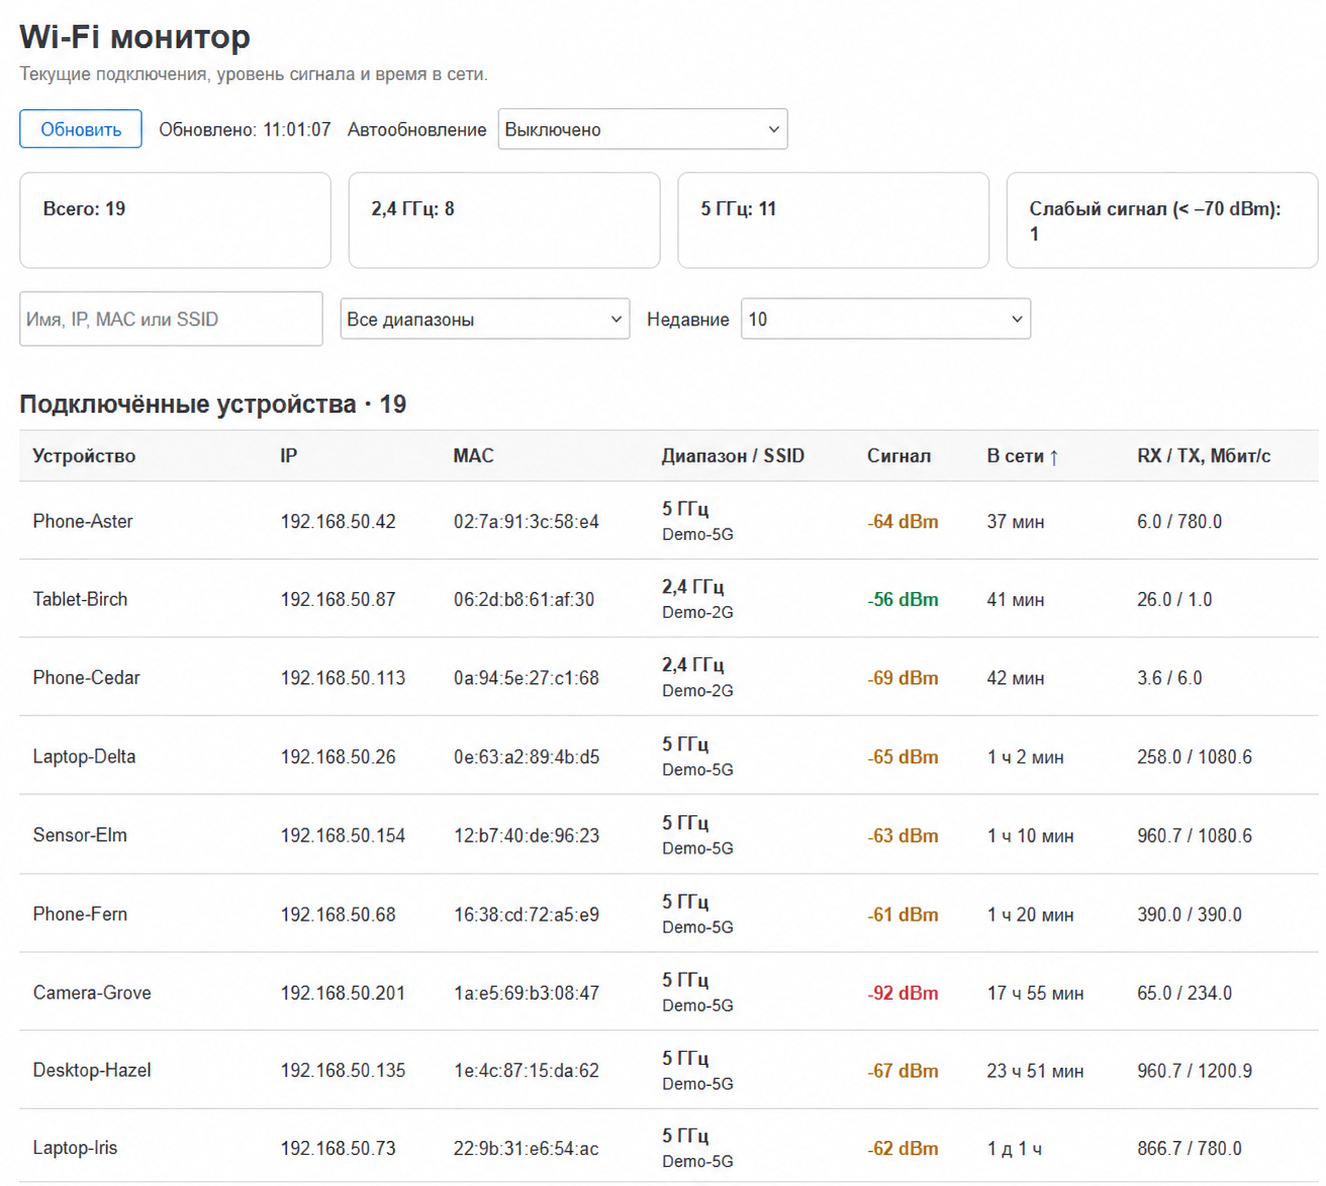
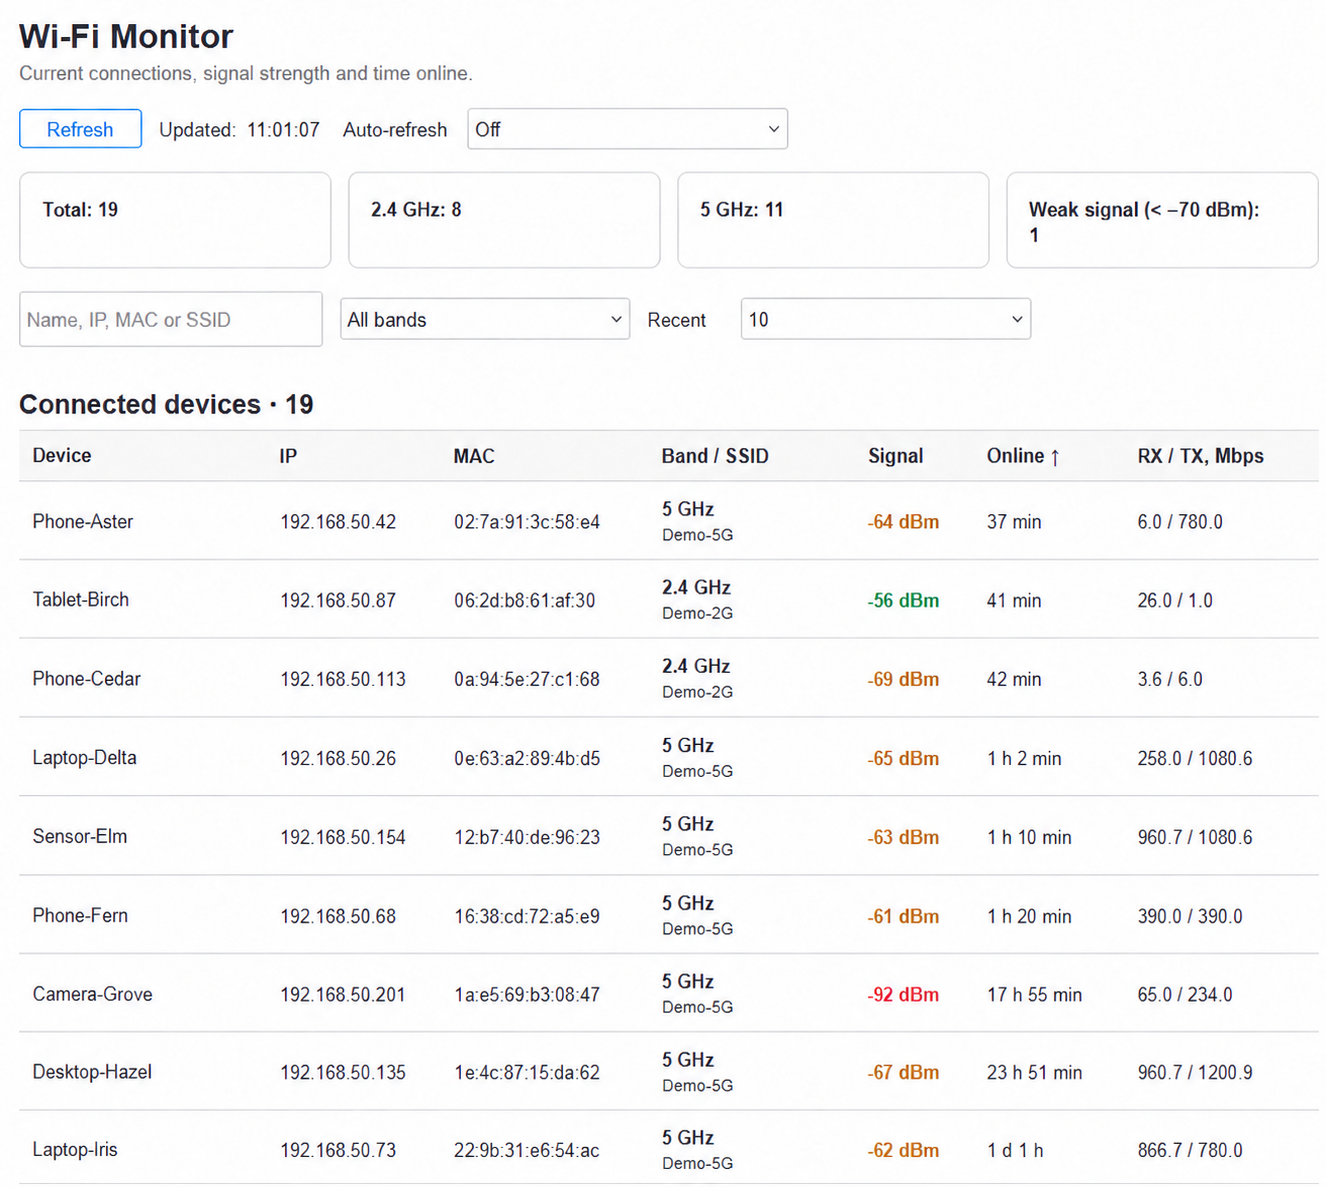
Translated interface screenshots into English

diff --git a/README.ru.md b/README.ru.md
@@ -10,7 +10,7 @@ Wi-Fi Monitor добавляет пункт **Сервисы → Wi-Fi Monitor**
 
 ![Обзор Wi-Fi монитора: счётчики, поиск, диапазоны и таблица устройств](docs/images/overview.png)
 
-*На иллюстрациях имена устройств, SSID, IP и MAC заменены вымышленными данными. Показан фрагмент общего списка; счётчик относится ко всем подключениям.*
+*На иллюстрациях показан английский интерфейс; имена устройств, SSID, IP и MAC заменены вымышленными данными. Показан фрагмент общего списка; счётчик относится ко всем подключениям.*
 
 ## Почему не достаточно списка DHCP-аренд
 
@@ -43,7 +43,7 @@ Wi-Fi Monitor отвечает на другой вопрос: **«какие у
 
 ## Возможности
 
-- Отдельная страница LuCI на русском языке, доступная после обычного входа.
+- Отдельная страница LuCI на английском и русском языках, доступная после обычного входа.
 - Имя устройства, IPv4, MAC, диапазон, SSID, сигнал в dBm, время в сети, скорости RX/TX.
 - Сортировка нажатием на заголовок столбца; повторное нажатие меняет направление.
 - Поиск по имени, IP, MAC, SSID и имени интерфейса.

diff --git a/README.md b/README.md
@@ -10,7 +10,7 @@ Wi-Fi Monitor adds **Services → Wi-Fi Monitor** to LuCI. It reads the stations
 
 ![Wi-Fi Monitor overview with counters, search, band filters and connected stations](docs/images/overview.png)
 
-*The screenshots show the Russian interface. Device names, SSIDs, IP addresses and MAC addresses were replaced with fictional data. The overview image contains only part of the table; its counter covers all connections.*
+*Device names, SSIDs, IP addresses and MAC addresses in the screenshots are fictional. The overview image contains only part of the table; its counter covers all connections.*
 
 ## Why DHCP leases are not enough
 

diff --git a/CHANGELOG.md b/CHANGELOG.md
@@ -7,6 +7,7 @@
 - Интерфейс переведён на английский язык с автоматическим выбором английского или русского языка LuCI.
 - Добавлена проверка регистрации RPC после установки.
 - Исправлена проверка файлов LuCI в установщике для OpenWrt 24.10.
+- Скриншоты интерфейса переведены на английский язык.
 
 ## 1.0.0
 
